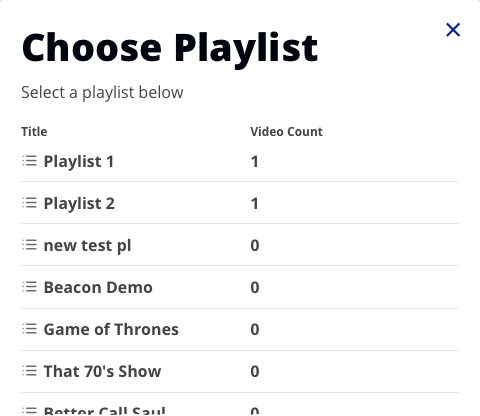
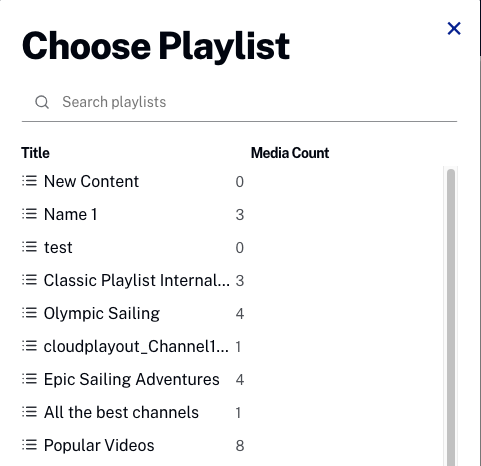
Updating in-app help for Layout Module

diff --git a/pages/howto/creating-page.html b/pages/howto/creating-page.html
@@ -11,18 +11,18 @@ layout: "howto"
     </p>
     <ol class="bcls-tasklist-restart">
       <li>Open the <strong>Layout</strong> module.</li>
-      <li>In the navigation panel, click <span class="button-blue">Create Page</span>. The <strong>Creating Page</strong> panel opens.</li>
+      <li>At the top of the page list click <span class="button-blue-text"><img src="/assets/images/common/plus-in-square.png"> Create Page</span>. The <strong>Creating Page</strong> panel opens.</li>
       <li>Enter a <strong>Page Name</strong>. Note that the character limit is beyond the logical limit for a page name.</li>
       <li>Click a <strong>Layout</strong> to select it. The <strong>Layout</strong> controls how the content is displayed on the page. Selecting a layout updates the page preview on the right.
         <figure class="bcls-figure"><img class="bcls-image" alt="" src="/assets/images/pages/howto/pages-layout.png" /></figure>
       </li>
       <li>Click <span class="button-blue">Create</span>.</li>
-      <li>Click <span class="button-blue-text">Add playlist</span>. The <strong>Choose Playlist</strong> panel opens displaying a list of created playlists.
+      <li>Click <span class="button-blue-text"><img src="/assets/images/common/plus-in-square.png"> Add playlist</span>. The <strong>Choose Playlist</strong> panel opens displaying a list of created playlists.
         <figure class="bcls-figure">
           <img class="bcls-image" src="/assets/images/pages/howto/pages-choose-playlist.png" alt="choose playlist">
         </figure>
       </li>
-      <li>Select one or more playlists (note some layouts only accept one playlist) to add to the page by hovering over the playlist and then clicking <strong>Add</strong>. As playlists are added, they appear on the page preview.
+      <li>Select one or more playlists (note some layouts only accept one playlist) to add to the page by hovering over the playlist and then clicking <span class="button-blue-text"><img src="/assets/images/common/plus-in-square.png"> Add</span>. As playlists are added, they appear on the page preview.
       </li>
       <li>Click <strong>X</strong> to close playlists panel.</li>
       <li>To make the new page visible in your apps, click <span class="button-blue">Publish</span> at the top of the navigation panel.</li>

diff --git a/pages/help/index.html b/pages/help/index.html
@@ -16,7 +16,7 @@ layout: help
       <summary>Create new page</summary>
       <section class="bcls-section">
         <ol class="bcls-tasklist-restart">
-          <li>Click <span class="button-blue-text"><i class="button-icon" data-feather="plus"></i>Create Page</span> at the bottom of your page list.</li>
+          <li>Click <span class="button-blue-text"><img src="/assets/images/common/plus-in-square.png">Create Page</span> at the top of your page list.</li>
         </ol>
         <p><a href="/pages/howto/creating-page.html" target="_blank">Show me how <img src="/assets/images/feather/external-link-blue.svg" alt="External link" class="external-link-icon"></a></p>
         <p><a href="/pages/creating-managing-pages.html" target="_blank">Details <img src="/assets/images/feather/external-link-blue.svg" alt="External link" class="external-link-icon"></a></p>
@@ -67,7 +67,7 @@ layout: help
       <summary>Change page title</summary>
       <section class="bcls-section">
         <ol class="bcls-tasklist-restart">
-          <li>Click <img class="bcls-image--no-border" alt="settings icon" src="/assets/images/feather/settings.svg" style="width: .9rem;" /> next to page name. You can change the title for other enabled language here also.</li>
+          <li>Click <img class="bcls-image--no-border" alt="settings icon" src="/assets/images/feather/settings.svg" style="width: .9rem;" /> next to page name. You can change the title for other enabled languages here also.</li>
         </ol>
       </section>
     </details>

diff --git a/pages/help/add-playlist.html b/pages/help/add-playlist.html
@@ -10,10 +10,12 @@ layout: help
 <article class="bcls-article">
   <summary>{{ page.description }}</summary>
   <section class="bcls-section">
-    <p>Mouse over the playlists then click <span class="button-blue-text">+ Add</span> to add the desired playlist to the page.</p>
-    <p>Click <span class="button-red-text">- Remove</span> to remove a playlist from the page.</p>
-    <!-- <p>The Search field at the top of the page can be used to search for a playlist.</p> -->
-    <p>Click <strong>X</strong> to close the playlist selection panel.</p>
+    <ul>
+      <li>Mouse over the playlists then click <span class="button-blue-text"><img src="/assets/images/common/plus-in-square.png"> Add</span> to add the desired playlist to the page.</li>
+      <li>Click <span class="button-red-text"><img src="/assets/images/common/minus-in-square.png"> Remove</span> to remove a playlist from the page.</li>
+      <li>Click <strong>X</strong> to close the playlist selection panel.</li>
+      <li>The Search field at the top of the page can be used to search for a playlist.</li>
+    </ul>
     <p><a href="/pages/managing-playlists-on-pages.html" target="_blank">Details <img src="/assets/images/feather/external-link-blue.svg" alt="External link" class="external-link-icon"></a></p>
   </section>
 </article

diff --git a/pages/help/page-title.html b/pages/help/page-title.html
@@ -16,11 +16,11 @@ layout: help
       <section class="bcls-section">
         <p>Define the name of the page, which viewers will see in the Brightcove Beacon app.</p>
         <ol class="bcls-tasklist">
-          <li>Enter the name for the page. Once a name is entered you will be able to select a layout.</li>
+          <li>Enter the name for the page.</li>
         </ol>
         <ul>
-          <li>The title is used as part of the internal, system name.</li>
-          <li>The page title can be changed later.</li>
+          <li>The name is used as part of the internal, system page ID.</li>
+          <li>The page name can be changed later.</li>
           <li>Maximum characters allowed is beyond the practical limit you would want to use.</li>
         </ul>
       </section>

diff --git a/pages/help/page-details.html b/pages/help/page-details.html
@@ -44,7 +44,7 @@ layout: help
     <details>
       <summary>Add playlist(s)</summary>
       <section class="bcls-section">
-        <p>Click <span class="button-blue-text">Add Playlist</span> to control the playlist(s) that are displayed on the page.</p>
+        <p>Click <span class="button-blue-text"><img src="/assets/images/common/plus-in-square.png"> Add Playlist</span> to control the playlist(s) that are displayed on the page.</p>
       </section>
     </details>
 
